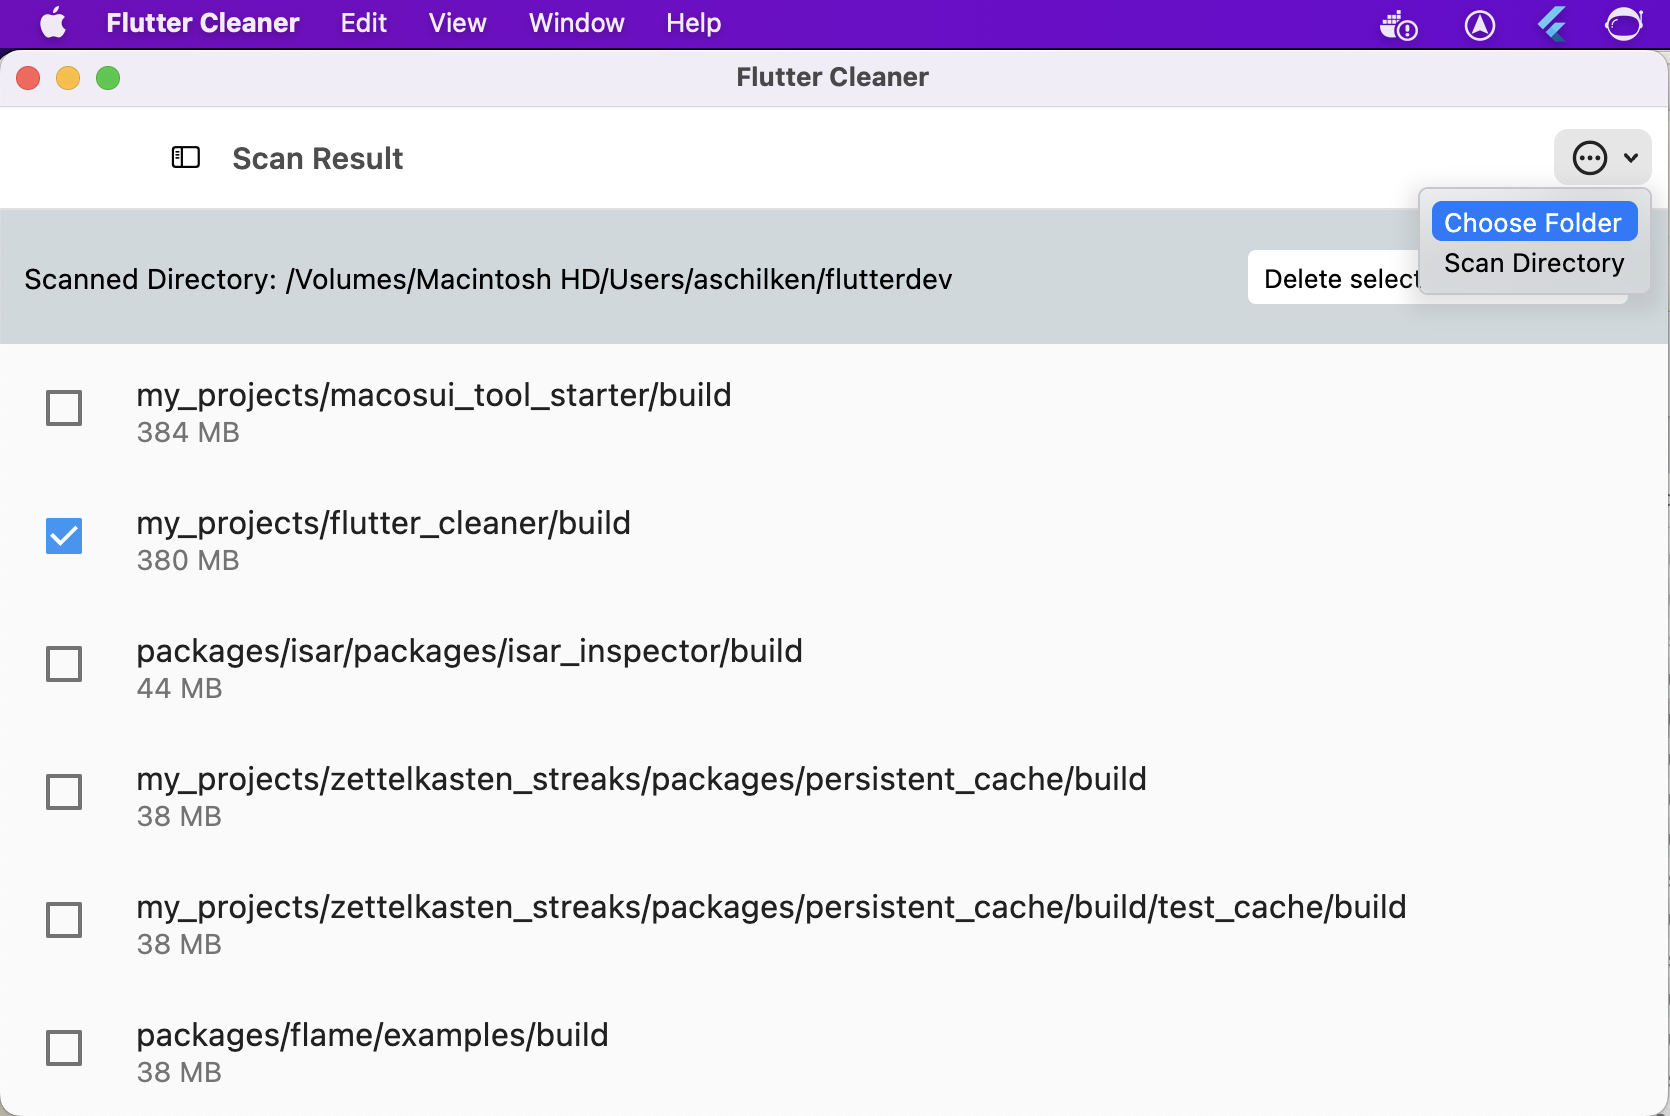
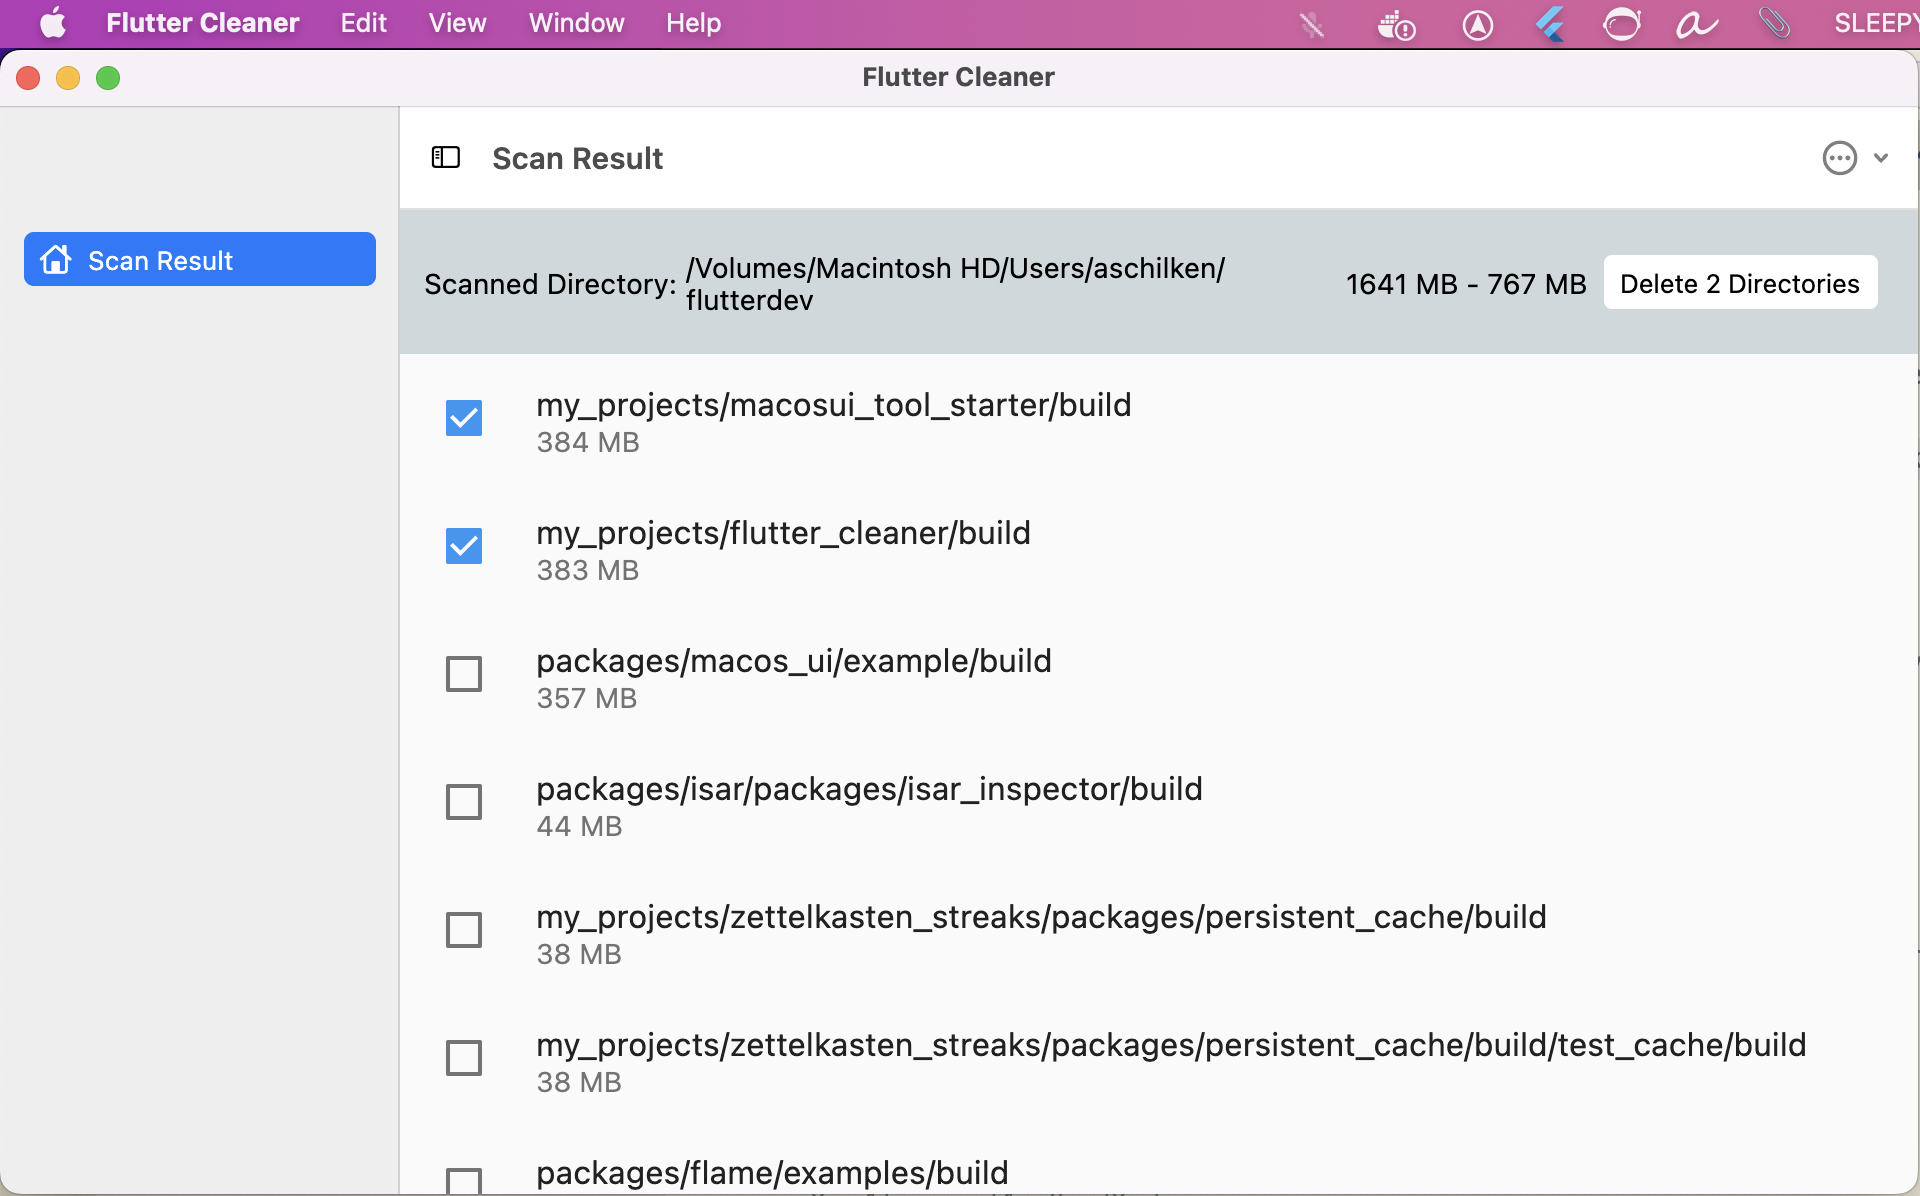
add screenshot to readme

diff --git a/README.md b/README.md
@@ -15,6 +15,8 @@ flutter build macos
 ```
 You find the built app here: `flutter_cleaner/build/macos/Build/Products/Release/Flutter Cleaner`
 
+<img src="assets_for_readme/Flutter Cleaner Screenshot.png"/>
+
 ## Download a release from github
 (coming soon)
 
